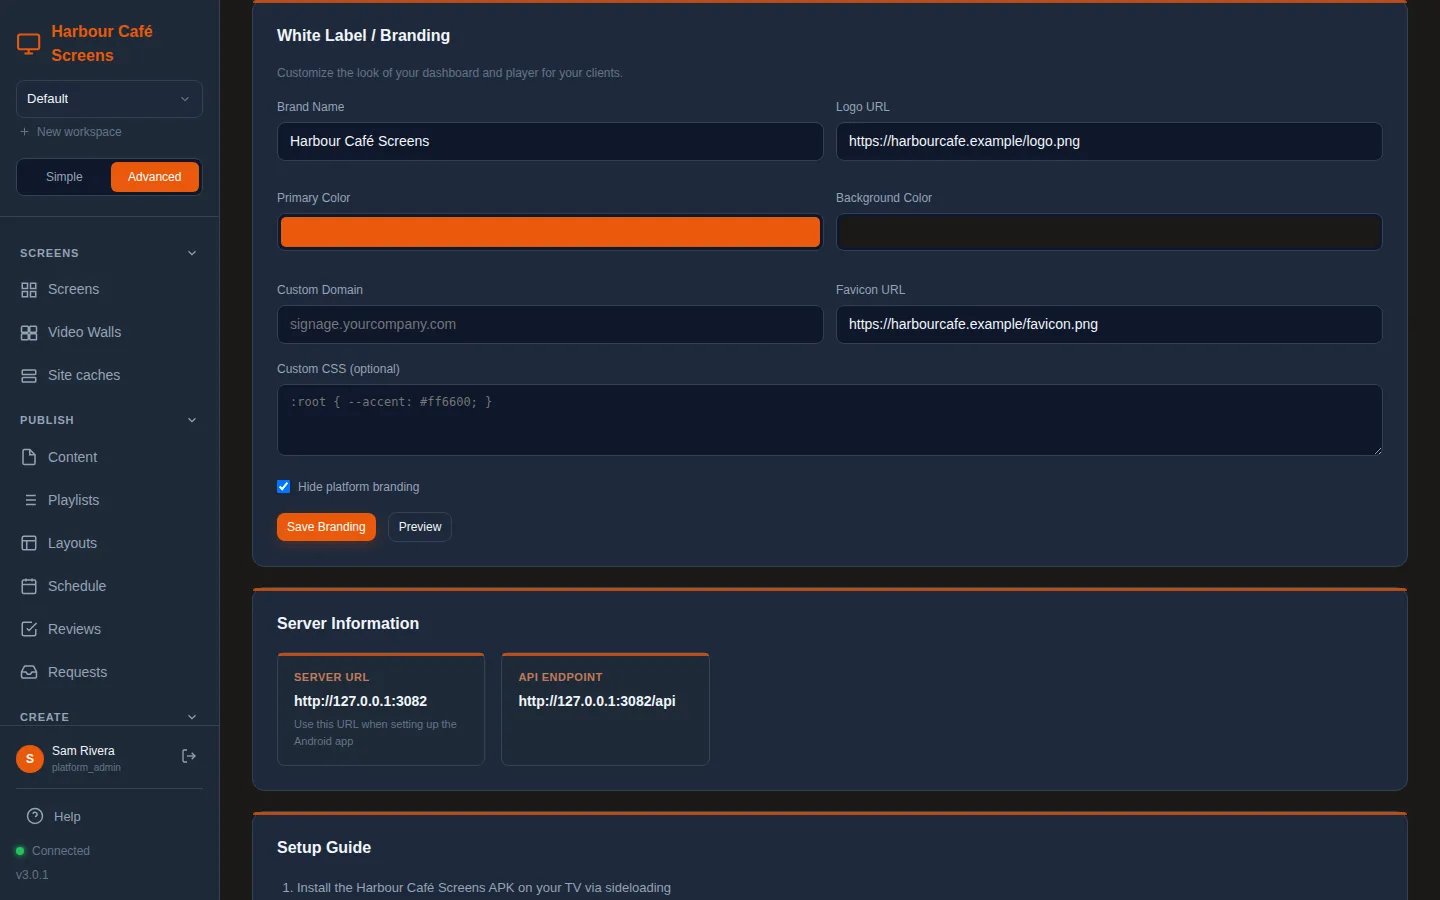
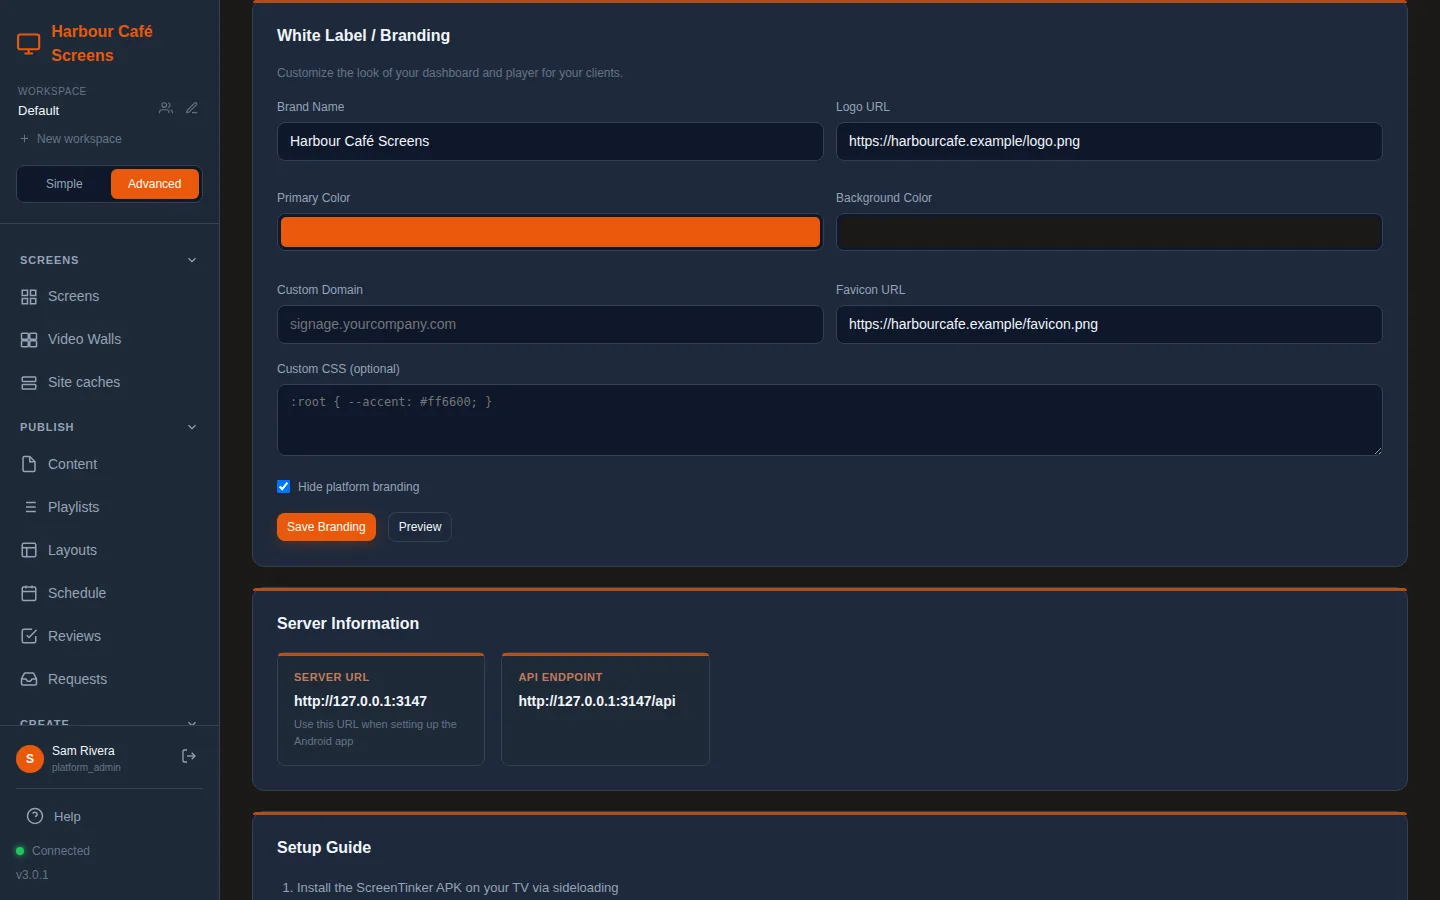
guides: match the playlists and white-label pages to #684 and #687 (#689)
- playlists: an unpublished playlist shows the screen's Default Content, if
  it has one, instead of "Waiting for content..." (#687)
- white-label: the Settings setup steps keep saying ScreenTinker under a
  workspace brand (#684); the workspace-branding screenshot is retaken

Claude-Session: https://claude.ai/code/session_01RG9MxbGMjmb4DVfDUotFdV

diff --git a/frontend/guides/white-label-digital-signage.html b/frontend/guides/white-label-digital-signage.html
@@ -76,7 +76,7 @@
 
     <h2 id="where">What your brand changes</h2>
     <ul>
-      <li><strong>The dashboard</strong>: your brand name at the top of the menu and in the browser tab, your primary colour on buttons and highlights, your background colour, and your favicon. Text that names the product, such as the setup steps in <strong>Settings</strong>, uses your brand name too. The small screen icon next to the name stays as it is.</li>
+      <li><strong>The dashboard</strong>: your brand name at the top of the menu and in the browser tab, your primary colour on buttons and highlights, your background colour, and your favicon. Text about the installed apps, such as the setup steps in <strong>Settings</strong>, still says ScreenTinker, because those apps keep their standard name (see <a href="#not-branded">what keeps the ScreenTinker name</a>). The small screen icon next to the name stays as it is.</li>
       <li><strong>The sign-in page</strong>: your logo, your brand name and your colours.</li>
       <li><strong>Web player screens</strong>: your brand name on the pairing screen, the "Connecting..." screen and the browser tab. Only the name: the logo and colours are not shown there. See <a href="#screens">what screens show</a>.</li>
       <li><strong>Content request forms</strong> (the public page people use to send you content): your logo or name and your primary colour.</li>

diff --git a/frontend/guides/digital-signage-content-playlists.html b/frontend/guides/digital-signage-content-playlists.html
@@ -157,7 +157,7 @@
     </figure>
     <ul>
       <li><strong>Discard Changes</strong> throws away everything since the last publish and puts the playlist back as it was.</li>
-      <li>If the banner says "This playlist has never been published. Devices will show nothing until you publish.", a screen given this playlist shows "Waiting for content..." until you publish.</li>
+      <li>If the banner says "This playlist has never been published. Devices will show nothing until you publish.", a screen given this playlist shows "Waiting for content..." until you publish, or its <strong>Default Content</strong> picture if it has one (see <a href="/guides/digital-signage-troubleshooting.html#waiting">The screen says "Waiting for content..."</a>).</li>
       <li>The same banner, with <strong>Publish</strong>, also appears on the screen's own page when the playlist it plays has unpublished changes.</li>
       <li>Adding files from the Content Library with <strong>Add to playlist…</strong> also leaves a draft: "Screens show it once you publish the playlist."</li>
     </ul>
